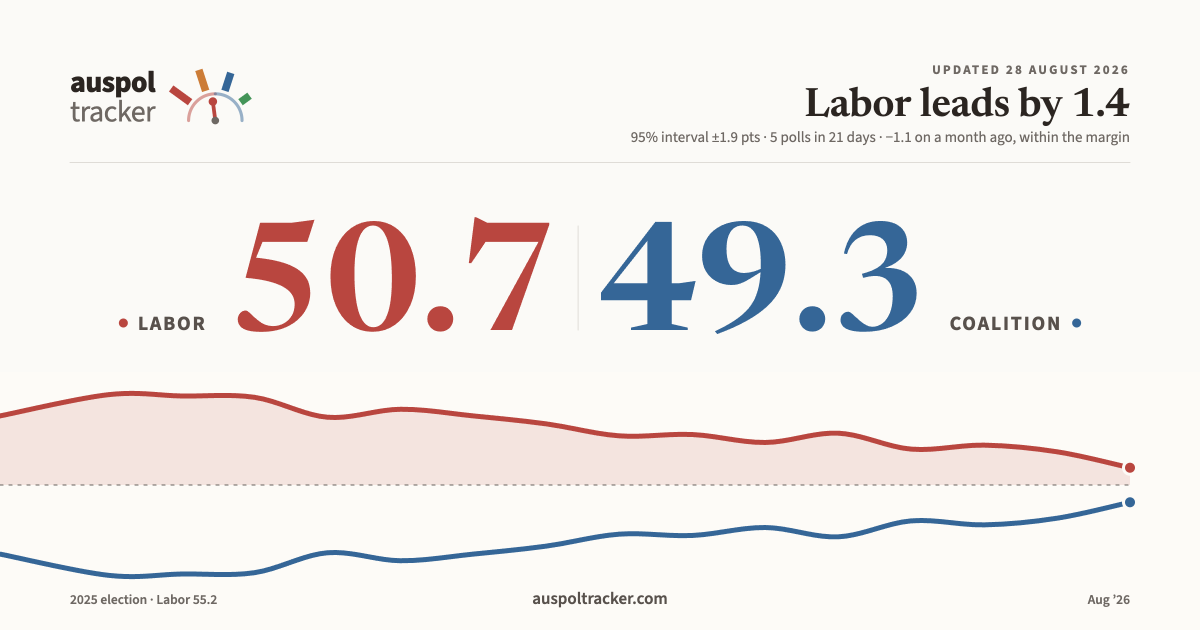
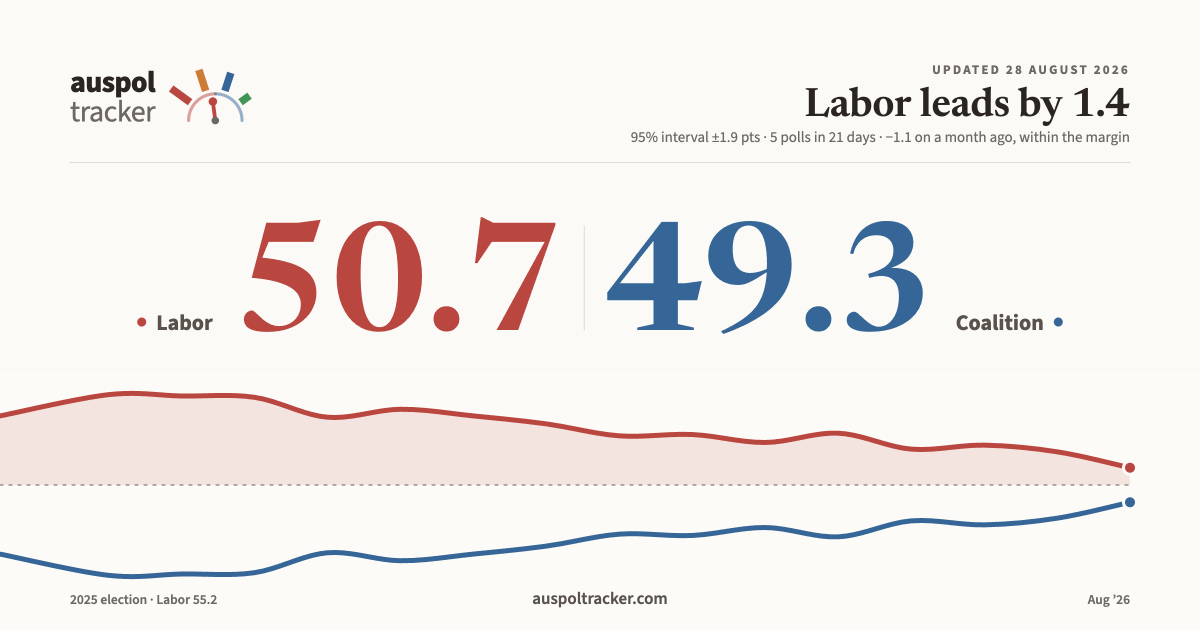
Share card: set the party labels in sentence case
LABOR and COALITION become Labor and Coalition, beside the figures.

The tracking goes with the case, as it did on the trend's end labels:
1.8px is what carries small caps and what pulls lowercase apart, so it
goes to 0, and the size to 22px from 20 to hold the optical presence
caps had - only the L and the C reach cap height now.

The row re-centres itself: its width is measured from the labels rather
than assumed, so the whole lockup recomposed around the narrower pair
without a number needing to move.

The dot beside each label now takes its vertical centre from the label
size rather than the 7px that was measured for 20px caps, so it stays
on the cap's midline if the label is ever resized again.

diff --git a/.build/newtracker/make-card.js b/.build/newtracker/make-card.js
@@ -208,36 +208,42 @@
      who leads and by how much - three namings of one measure.
 
      150px and centred on the card, arranged the way the page's own hero
-     arranges them - LABOR 51.4 | 48.6 COALITION - so the labels sit inline
+     arranges them - Labor 51.4 | 48.6 Coalition - so the labels sit inline
      and no separate label row is needed. They are the only element that
      survives a 360px thumbnail, so they get the middle. */
   const FIG_Y = 330, FIG_PX = 150, GAP = 22, DOT = 4.5;
   const figFont = "600 " + FIG_PX + 'px Newsreader, Georgia, serif';
-  const measCaps = (t) => { c.font = '700 20px "Source Sans 3", sans-serif';
-    c.letterSpacing = "1.8px"; const w = c.measureText(t).width;
-    c.letterSpacing = "0px"; return w; };
+  /* Sentence case, so no tracking - 1.8px is what carries small caps and what
+     pulls lowercase apart - and 22px rather than 20 to hold the optical size
+     caps had, since only the L and the C now reach cap height. */
+  const LAB_PX = 22;
+  const measLabel = (t) => { c.font = `700 ${LAB_PX}px "Source Sans 3", sans-serif`;
+    return c.measureText(t).width; };
   const measFig = (v) => { c.font = figFont; return c.measureText(v.toFixed(1)).width; };
 
-  const wLabTxt = measCaps("LABOR"), wCoaTxt = measCaps("COALITION");
+  const wLabTxt = measLabel("Labor"), wCoaTxt = measLabel("Coalition");
   const wAlp = measFig(L.alp2pp), wLnp = measFig(L.lnp2pp);
   const rowW = DOT * 2 + 10 + wLabTxt + GAP + wAlp + GAP + 1 + GAP + wLnp
              + GAP + wCoaTxt + 10 + DOT * 2;
   let x = (W - rowW) / 2;
 
-  // centred on the label's cap height (20px caps ≈ 14.5 tall), not floating above it
-  const dot = (cx, col) => { c.beginPath(); c.arc(cx, FIG_Y - 7, DOT, 0, 7);
+  /* Centred on the label's cap height, not floating above it - derived from
+     the size rather than the 7 that was measured for 20px caps, so it stays
+     centred if the label is ever resized again. */
+  const DOT_Y = FIG_Y - LAB_PX * 0.3625;
+  const dot = (cx, col) => { c.beginPath(); c.arc(cx, DOT_Y, DOT, 0, 7);
     c.fillStyle = col; c.fill(); };
   const figure = (v, col) => { c.font = figFont; c.fillStyle = col;
     c.fillText(v.toFixed(1), x, FIG_Y); x += c.measureText(v.toFixed(1)).width; };
 
   dot(x + DOT, T.alp); x += DOT * 2 + 10;
-  caps("LABOR", x, FIG_Y, 20, 1.8, T.ink2, 700); x += wLabTxt + GAP;
+  caps("Labor", x, FIG_Y, LAB_PX, 0, T.ink2, 700); x += wLabTxt + GAP;
   figure(L.alp2pp, T.alp); x += GAP;
   c.strokeStyle = T.line; c.lineWidth = 1;
   c.beginPath(); c.moveTo(x + 0.5, FIG_Y - 104); c.lineTo(x + 0.5, FIG_Y); c.stroke();
   x += 1 + GAP;
   figure(L.lnp2pp, T.lnp); x += GAP;
-  caps("COALITION", x, FIG_Y, 20, 1.8, T.ink2, 700); x += wCoaTxt + 10;
+  caps("Coalition", x, FIG_Y, LAB_PX, 0, T.ink2, 700); x += wCoaTxt + 10;
   dot(x + DOT, T.lnp);
 
   /* ---- the term's trend -------------------------------------------------- */
